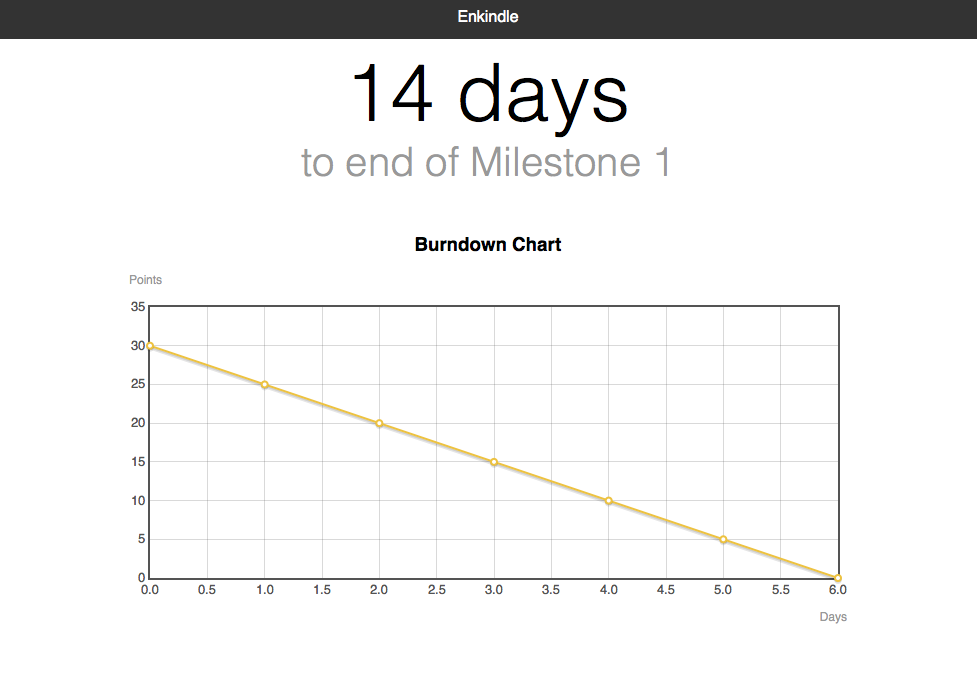
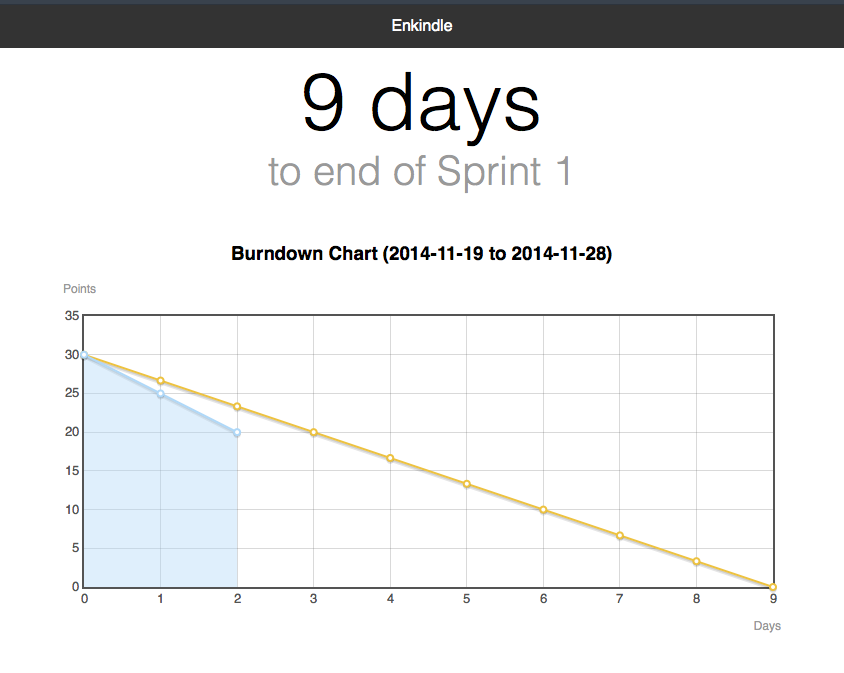
Set fill property for burn chart and updated preview image

diff --git a/enkindle/templates/index.html b/enkindle/templates/index.html
@@ -38,9 +38,9 @@
           },
           {
             data: burn_data,
-            lines: { show: true },
-            points: { show: true }
-          }
+            lines: { show: true, fill: true },
+            points: { show: true },
+          },
           ]);
         });
     </script>
